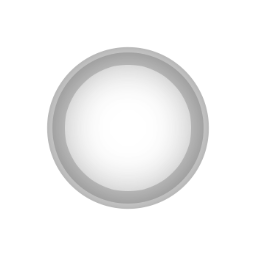
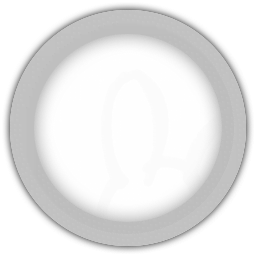
zzzz

diff --git a/src/instafade.py b/src/instafade.py
@@ -8,8 +8,8 @@ def create_circles():
     hit_circle_alt = Image.open("assets/gameplay/standard/hit-circle-alt.png")
     approach = Image.open("assets/gameplay/standard/approach.png")
     
-    insta_fading_circle = utils.resize_by_multiplier(hit_circle,1/0.8)
-    insta_fading_circle_alt_c = utils.resize_by_multiplier(hit_circle_alt,1/0.8)
+    insta_fading_circle = utils.resize_by_multiplier(hit_circle,(1/0.8)*0.75)
+    insta_fading_circle_alt_c = utils.resize_by_multiplier(hit_circle_alt,(1/0.8)*0.75)
     
     #colors = list(Color("").range_to(Color(""),10))
     colors = Color.steps(['#51ff00', '#a200ff'], steps=10, space='hsl')

diff --git a/readme.md b/readme.md
@@ -4,21 +4,17 @@ If you hate it, not my problem.
 
 Characterless, except for the background. Sorry, couldn't resist. It's just the osager.
 
-standard is very.. performance optimized.
-
-Sounds taken from Keqing Tourney Skin.
+Sounds taken from *Keqing Tourney Skin*, and std hitcircles from *If There Was An Endpoint skin*.
 ## Download
 - [Here!](https://github.com/grhw/guhw-characterless-skin/releases)
 
 ## Modes
 ### Standard
 - Insta-fade
-- No Combo Numbers
-- Quick Fading Hit Feedback
+- Colors are based on number
 - Slightly Smaller Hit-circles (to trick yourself to aim better) 
-- Made for being easier to read.
 ### Mania
 - Looks better than standard
 - idk. i dont skin mania usually, its accurate if you wanted to know that.
 ### Taiko
-- it sucks
+- it sucks dont play it
